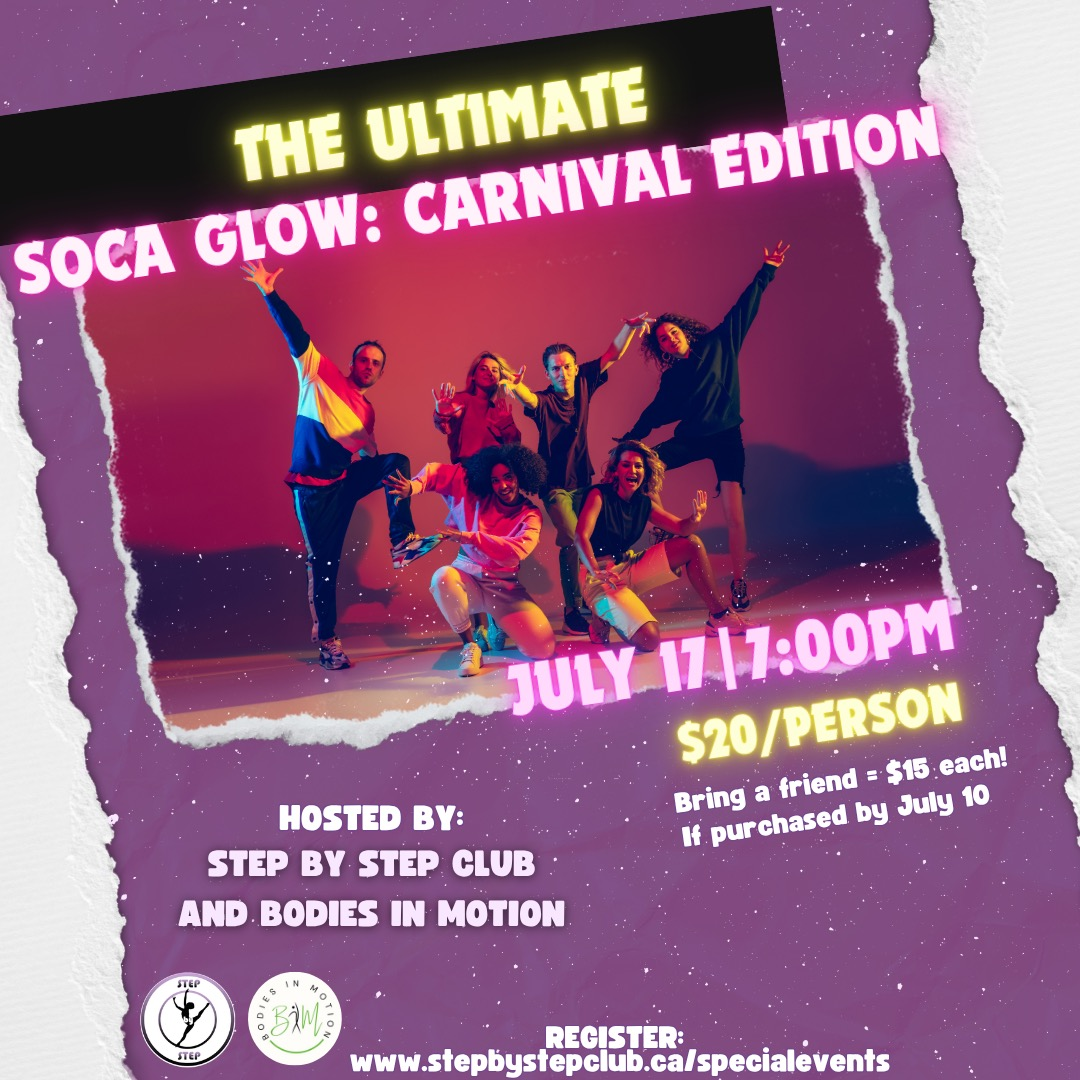
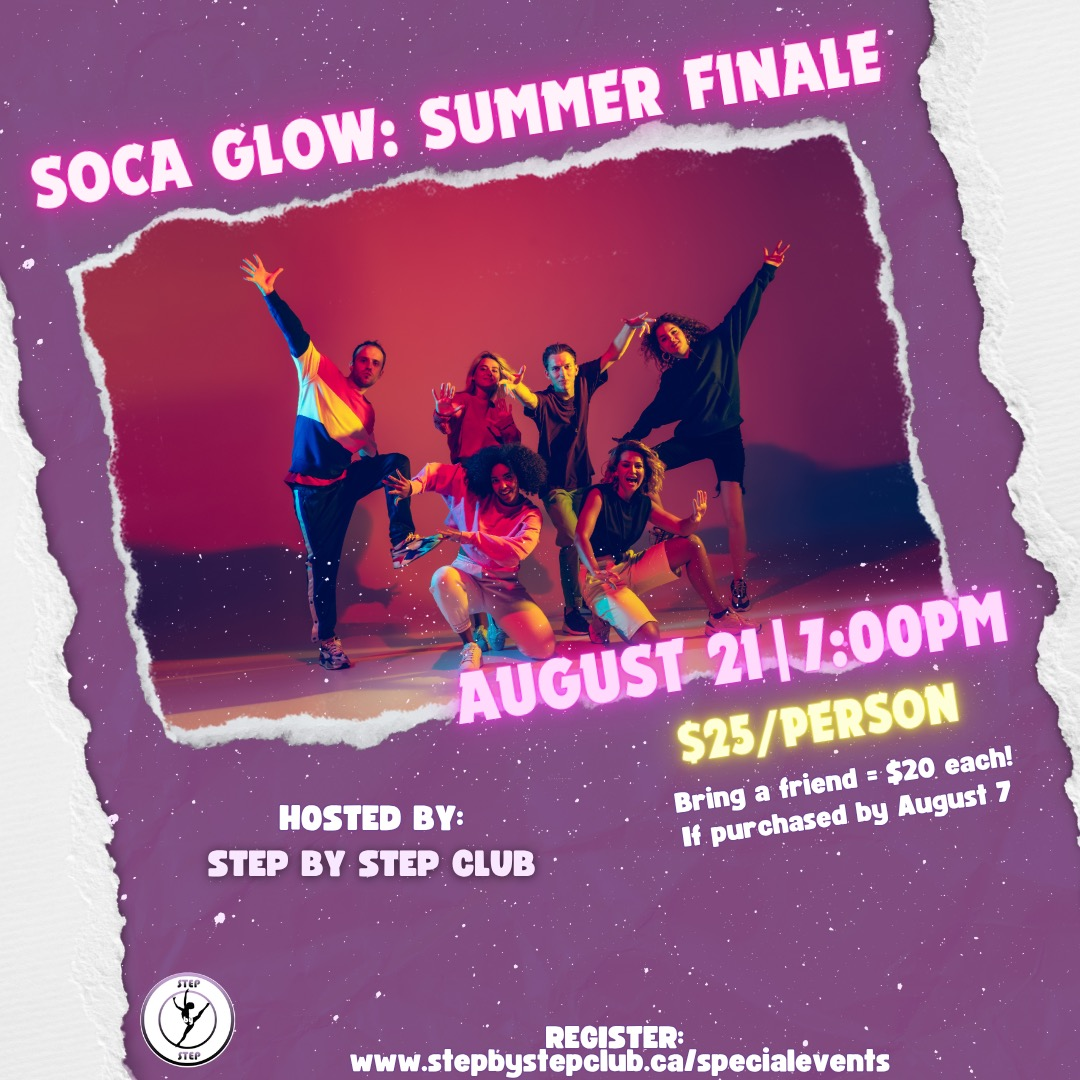
upload special events image and link

Changed region(s): [[0.0, 0.0, 0.8861, 0.275], [0.3972, 0.5194, 0.9472, 0.7639], [0.1528, 0.825, 0.55, 1.0]]

diff --git a/client/src/pages/SpecialEvents/SpecialEvents.js b/client/src/pages/SpecialEvents/SpecialEvents.js
@@ -1,12 +1,10 @@
 import "./SpecialEvents.scss";
 import { useState } from "react";
-
 import specialEvents3 from "../../assets/images/smallgrouptrain.jpeg";
 import specialEvents4 from "../../assets/images/mom-fitness.jpeg";
 import specialEvents8 from "../../assets/images/strollerfit.jpeg";
 import specialEvents11 from "../../assets/images/bustrip.jpeg";
 import specialEvents12 from "../../assets/images/soca.jpeg";
-import specialEvents13 from "../../assets/images/princesstea.jpeg";
 
 const SpecialEvents = () => {
   const [selectedMedia, setSelectedMedia] = useState(null);
@@ -50,14 +48,6 @@ const SpecialEvents = () => {
     openRegistrationLink(
       "https://www.wellnessliving.com/rs/event/step_by_step_club?k_class=954144&k_class_tab=66299",
       "strollerfit",
-    );
-  };
-
-
-  const linkToBuyTickets9 = () => {
-    openRegistrationLink(
-      "  https://www.wellnessliving.com/rs/catalog-view.html?k_business=651877&id_sale=3&k_id=983986",
-      "soca",
     );
   };
   const linkToBuyTickets10 = () => {
@@ -136,29 +126,13 @@ const SpecialEvents = () => {
           </button>
         </div>
       </div>
-      <div className="special-events__card-wrapper">
+        <div className="special-events__card-wrapper">
         <div className="special-events__image-container">
           <img
             src={specialEvents12}
             alt="Special Event"
             className="special-events__image"
             onClick={() => openMedia(specialEvents12)}
-          />
-          <button
-            className="special-events__button"
-            onClick={linkToBuyTickets9}
-          >
-            Click Here to Register!
-          </button>
-        </div>
-      </div>
-        <div className="special-events__card-wrapper">
-        <div className="special-events__image-container">
-          <img
-            src={specialEvents13}
-            alt="Special Event"
-            className="special-events__image"
-            onClick={() => openMedia(specialEvents13)}
           />
           <button
             className="special-events__button"
